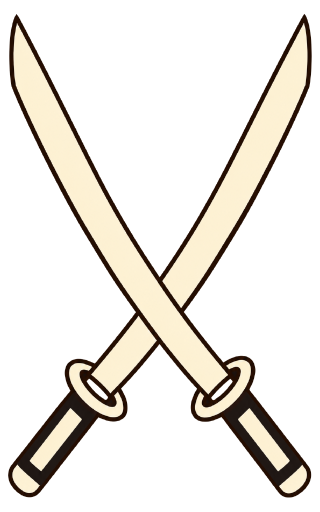
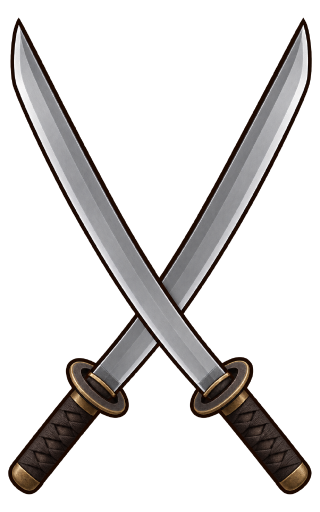
Give engaged swords natural steel and wrapped-handle colors

Changed region(s): [[0.0312, 0.0312, 1.0, 0.9688]]

diff --git a/素材/状态图标/v1/README.md b/素材/状态图标/v1/README.md
@@ -1,8 +1,8 @@
 # 状态图标 v1 · 交戦、指揮外、阵形、敗走与射击状态
 
-本目录提供七个状态图标；**revision 24 仅更新交戦与指揮外**，改为 5:8 竖向画布上的独立透明图案，取消暗朱红底与装饰外框。其余五图及其十五份 PNG 不变；本轮仅更新美术与交接说明，未修改 TTS 代码。
+本目录提供七个状态图标；**revision 25 仅更新交戦的材质颜色**：刀身改为自然的冷灰／银色钢材，刀柄改为深色缠绳，配深铁色刀镡和低饱和旧黄铜／青铜配件。透明 5:8 画布、100 × 160 显示尺寸与定位沿用 revision 24。其余六图及其十八份 PNG、六份历史圆章均不变；本轮仅更新美术与交接说明，未修改 TTS 代码。
 
-- **交戦 / `engaged`**：修长的象牙色交叉太刀，深褐描边与深色刀柄，图案之间和外围透明。
+- **交戦 / `engaged`**：修长的交叉太刀，冷灰／银色钢刀身带宽幅柔和明暗与较亮刃口，深褐／炭灰缠绳刀柄、深铁色刀镡及低饱和旧黄铜／青铜配件；保留深褐轮廓，图案之间和外围透明。
 - **指揮外 / `out_of_command`**：倾斜的炭灰旧木军配，前方叠加**粗黑空心禁止圆圈＋黑色斜杠**，以细象牙色描边与深色军配区分；长柄伸出圆圈下方。禁止圈属于状态图案，没有实心底，也不是装饰外框。
 
 两者都按完整画布 **100 × 160** 显示，分别位于标题栏左右两侧，**可以同时出现，不能作为互斥状态复用一个位置**。实际图案轮廓及透明留白不同，不要求两图 alpha 一致。
@@ -13,9 +13,9 @@
 
 | 标识 | 文件 | 像素尺寸 | 透明留白（左 / 上 / 右 / 下） |
 | --- | --- | --- | --- |
-| `engaged` | [engaged.png](./engaged.png) | 320 × 512 | 8 / 13 / 8 / 14 px |
-| `engaged` | [engaged-100x160.png](./engaged-100x160.png) | 100 × 160 | 2 / 4 / 2 / 4 px |
-| `engaged` | [源图/engaged-640x1024.png](./源图/engaged-640x1024.png) | 640 × 1024 | 16 / 27 / 16 / 28 px |
+| `engaged` | [engaged.png](./engaged.png) | 320 × 512 | 8 / 17 / 8 / 17 px |
+| `engaged` | [engaged-100x160.png](./engaged-100x160.png) | 100 × 160 | 2 / 5 / 2 / 5 px |
+| `engaged` | [源图/engaged-640x1024.png](./源图/engaged-640x1024.png) | 640 × 1024 | 16 / 35 / 16 / 35 px |
 | `out_of_command` | [out_of_command.png](./out_of_command.png) | 320 × 512 | 8 / 21 / 8 / 21 px |
 | `out_of_command` | [out_of_command-100x160.png](./out_of_command-100x160.png) | 100 × 160 | 2 / 6 / 2 / 6 px |
 | `out_of_command` | [源图/out_of_command-640x1024.png](./源图/out_of_command-640x1024.png) | 640 × 1024 | 16 / 43 / 16 / 43 px |
@@ -77,7 +77,7 @@
 
 上表间隙均以完整画布计算，不依赖图案的透明留白。现有标题栏内部为 `x=14..997, y=14..197`。已核对全部 12 个兵种的标题 PNG alpha 边界及既有定位记录，最紧的「鉄砲足軽隊／鉄砲僧兵隊」占用 `x=[128,885)`，最右可见像素为 884。两张 100 × 160 画布分别占用 `x=[20,120)`、`x=[892,992)`，共同占用 `y=[26,186)`，不与任何标题重叠。
 
-两个图标的位置围绕标题栏中心 `x=506` 对称，四字与五字名称使用相同定位，无需移动或缩小已烘焙的标题，也不修改现有 96 张成品。相较旧圆章，**UI 高度由 100 改为 160，左上角 y 由 56 改为 26，中心坐标不变**。应替换为新图，不能拉伸旧的方形圆章；也不能把新图继续压进 100 × 100。
+两个图标的位置围绕标题栏中心 `x=506` 对称，四字与五字名称使用相同定位，无需移动或缩小已烘焙的标题，也不修改现有 96 张成品。revision 24 已将建议布局改为 **UI 高度 160、左上角 y=26，中心坐标不变**；revision 25 沿用这一布局。若仍使用旧圆章布局，需将 UI 高度由 100 改为 160、左上角 y 由 56 改为 26。应替换为新图，不能拉伸旧的方形圆章；也不能把新图继续压进 100 × 100。
 
 以上验证为图片坐标与标题边界检查，并非 TTS 实机验收。棋面缩至 300 px 宽时，每张图案画布约为 25 × 40 px；实际缩远、斜视和纹理过滤效果仍需在 TTS 中检查。
 
@@ -87,14 +87,14 @@
 
 [交戦旧总览](./总览.jpg) · [指揮外与双状态旧总览](./out_of_command_总览.jpg)。旧炭灰背面图仅是对比示意，不是 TTS 实机截图；本轮没有重新检查旧预览。
 
-六份旧圆章导出保存在 [历史/圆章-revision23](./历史/圆章-revision23/)：`engaged.png`、`engaged-100.png`、`engaged-1024.png`、`out_of_command.png`、`out_of_command-100.png`、`out_of_command-1024.png`，仅供历史参考，不用于当前运行纹理。revision 10 的规则圆边、米金边带及 revision 12 的象牙斜杠均属于旧圆章处理，已被 revision 24 替代。
+六份旧圆章导出保存在 [历史/圆章-revision23](./历史/圆章-revision23/)：`engaged.png`、`engaged-100.png`、`engaged-1024.png`、`out_of_command.png`、`out_of_command-100.png`、`out_of_command-1024.png`，仅供历史参考，不用于当前运行纹理。revision 10 的规则圆边、米金边带及 revision 12 的象牙斜杠均属于旧圆章处理，已被 revision 24 替代。revision 24 的交戦使用象牙色刀身与浅色刀镡，revision 25 已改为自然钢色与深色刀具配件。
 
 ## 代码侧交接
 
-- 本次为 **`revision: 24`**：替换 `engaged` / 交戦与 `out_of_command` / 指揮外的六份导出，并更新对应 manifest 资产条目。密集、散開、敗走、射撃可、装填中共五图、十五份 PNG 及其 manifest 资产条目不变；它们既有的显示尺寸、候选位置及待定事项不变。
+- 本次为 **`revision: 25`**：仅替换 `engaged` / 交戦的三份导出，并更新对应 manifest 资产条目。指揮外、密集、散開、敗走、射撃可、装填中共六图、十八份 PNG 及其 manifest 资产条目不变，六份历史圆章也不变。全部图标既有的显示尺寸、位置及待定事项不变。
 - 已交付图标的固定标识为 `engaged`、`out_of_command`、`formation_close`、`formation_open`、`routed`、`fire_ready`、`fire_loading`。两个标题栏状态独立控制且允许同时显示；两阵形图共用位置，互相切换；两射击状态图互斥切换，具体位置及与阵形图的位置关系待定；敗走的位置及与其他状态的显示关系交由代码侧确认。
-- 七个 `cloud_url` 均为空。本轮需替换的首选运行纹理为 **`engaged.png`、`out_of_command.png`（320 × 512）**。两图须按完整画布 **100 × 160** 显示，UI 高度 **100 → 160**、左上角 y **56 → 26**，中心不变。保留 5:8 比例与透明留白；使用新版图案，不能拉伸旧方图，也不能裁切后重新定位。
-- 运行文件名虽然沿用，内容、尺寸和比例已变，代码侧需替换托管资源链接并刷新缓存。旧显示导出 `-100.png` 改为 `-100x160.png`，旧源图 `-1024.png` 改为 `-640x1024.png`；历史目录里的圆章不接入当前运行。仓库图片链接不代表 TTS 资源已配置或已验证。
+- 七个 `cloud_url` 均为空。本轮只需替换首选运行纹理 **`engaged.png`（320 × 512）** 并刷新缓存；`out_of_command.png` 不变。两图继续按完整画布 **100 × 160** 显示，交戦左上角 `(20,26)`、指揮外左上角 `(892,26)`，中心不变。保留 5:8 比例与透明留白，不裁切后重新定位。
+- revision 25 沿用文件名与尺寸，交戦内容已变，代码侧需替换其托管资源链接并刷新缓存。若仍从 revision 24 之前的圆章版本接入，UI 高度需 **100 → 160**、左上角 y **56 → 26**，旧显示导出 `-100.png` 改为 `-100x160.png`，旧源图 `-1024.png` 改为 `-640x1024.png`；应替换图案，不拉伸旧方图，历史目录里的圆章不接入当前运行。仓库图片链接不代表 TTS 资源已配置或已验证。
 - 本稿仅交接图片、尺寸和定位。状态如何触发、保存／恢复及清除由代码侧按已确认规则处理；这里不推测交战或指挥范围的自动判定、回合重置等逻辑。
 - 1200 棋面像素坐标需映射到实际物件坐标／UI。已有正背面渲染方式、厚度偏移及资源登记顺序请按代码侧交接保留，不能直接把本文件的像素数当作 TTS 世界坐标。
 - 实机检查应覆盖正反面、多人、缩放、倾斜和移动后的透明排序，检查单状态与双状态同时显示，并确认加高后的完整画布不拦截既有操作区域。透明图案并不保证 UI 点击区域也自动缩至可见轮廓。
@@ -105,6 +105,6 @@
 
 美术分支 `codex/art-status-icons` 从最新 `main` 的 `8c7aaa731f124eb693a23800402a65033806975f` 创建，使用独立工作目录。未合并 PR #2；本次交接仅写在此目录，公共 HANDOFF 由代码侧整合。
 
-本轮重新测量交戦与指揮外六份导出的尺寸、RGBA 透明通道、两种 alpha 阈值外接矩形、留白及 SHA-256；两图的 alpha 形状与留白有意不同。已依据全部 12 个兵种的标题 alpha 边界和定位记录验证 100 × 160 画布的间隙。相较本轮开始时的 HEAD，其余五图的十五份 PNG 字节及 manifest 资产条目完全一致；既有 96 张棋面、`tts/`、`tests/`、`tools/tts/` 及 `troop-cards-download` 分支不变。六份旧圆章导出已归档为历史素材，未生成总览、棋面或其他预览图。
+本轮重新测量交戦三份导出的尺寸、RGBA 透明通道、两种 alpha 阈值外接矩形、留白及 SHA-256，以当前图案的实际轮廓与留白为准。两张标题栏图案的 alpha 形状与留白仍有区别。完整 100 × 160 画布与定位未变，沿用全部 12 个兵种标题边界检查得到的间隙。相较本轮开始时的 `c0450b9`，其余六图的十八份 PNG 字节及 manifest 资产条目完全一致，六份历史圆章也逐字节不变；既有 96 张棋面、`tts/`、`tests/`、`tools/tts/` 及 `troop-cards-download` 分支不变。未生成总览、棋面或其他预览图。
 
 本轮未运行 Lua／MoonSharp 检查，也未进行 TTS 实机渲染、联机、缩放或斜视验收。实际显示效果需要代码侧替换纹理并刷新缓存后检查。
